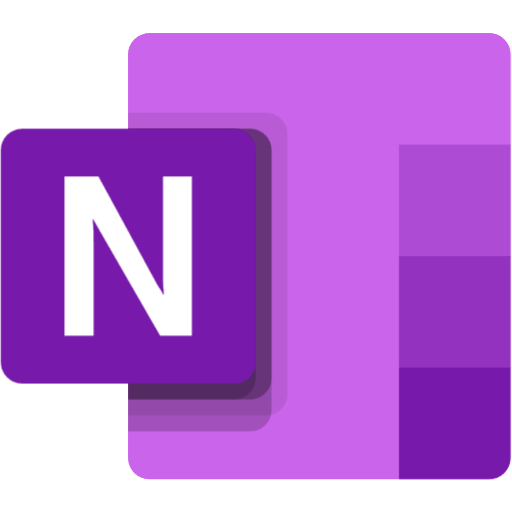
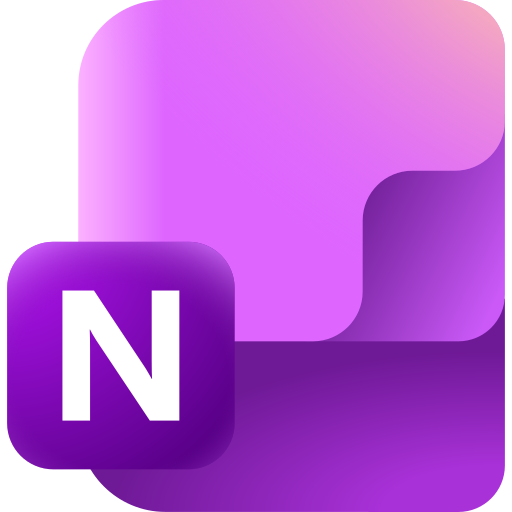
r0b08x [chore]   10/29/2025, 8:09:58 AM

diff --git a/change-log.md b/change-log.md
@@ -7,8 +7,12 @@
 
 ## Change log
 
+### v2025.10.111
+Released on 10/29/2025
+* FEATURE: Update icon to 2025 OneNote.
+
 ### v2025.10.110
-Released on 10/27/2025
+Released on 10/28/2025
 * BUGFIX: Fix startup failure on Ubuntu 24.04 when Wayland is unavailable by defaulting to X11/auto fallback (https://github.com/patrikx3/onenote/issues/233).
 
 
@@ -92,7 +96,7 @@ All my domains, including [patrikx3.com](https://patrikx3.com), [corifeus.eu](ht
 ---
 
 
-[**P3X-ONENOTE**](https://corifeus.com/onenote) Build v2025.10.110
+[**P3X-ONENOTE**](https://corifeus.com/onenote) Build v2025.10.111
 
  [![NPM](https://img.shields.io/npm/v/p3x-onenote.svg)](https://www.npmjs.com/package/p3x-onenote)  [![Donate for PatrikX3 / P3X](https://img.shields.io/badge/Donate-PatrikX3-003087.svg)](https://www.paypal.com/cgi-bin/webscr?cmd=_s-xclick&hosted_button_id=QZVM4V6HVZJW6)  [![Contact Corifeus / P3X](https://img.shields.io/badge/Contact-P3X-ff9900.svg)](https://www.patrikx3.com/en/front/contact) [![Like Corifeus @ Facebook](https://img.shields.io/badge/LIKE-Corifeus-3b5998.svg)](https://www.facebook.com/corifeus.software)
 

diff --git a/README.md b/README.md
@@ -6,7 +6,7 @@
 
 
 
-# 📚 P3X OneNote Linux v2025.10.110
+# 📚 P3X OneNote Linux v2025.10.111
 
 
   
@@ -22,7 +22,7 @@
 ### 🛠 Built on NodeJs version
 
 ```txt
-v24.10.0
+v24.11.0
 ```
 
 
@@ -320,7 +320,7 @@ All my domains, including [patrikx3.com](https://patrikx3.com), [corifeus.eu](ht
 ---
 
 
-[**P3X-ONENOTE**](https://corifeus.com/onenote) Build v2025.10.110
+[**P3X-ONENOTE**](https://corifeus.com/onenote) Build v2025.10.111
 
  [![NPM](https://img.shields.io/npm/v/p3x-onenote.svg)](https://www.npmjs.com/package/p3x-onenote)  [![Donate for PatrikX3 / P3X](https://img.shields.io/badge/Donate-PatrikX3-003087.svg)](https://www.paypal.com/cgi-bin/webscr?cmd=_s-xclick&hosted_button_id=QZVM4V6HVZJW6)  [![Contact Corifeus / P3X](https://img.shields.io/badge/Contact-P3X-ff9900.svg)](https://www.patrikx3.com/en/front/contact) [![Like Corifeus @ Facebook](https://img.shields.io/badge/LIKE-Corifeus-3b5998.svg)](https://www.facebook.com/corifeus.software)
 

diff --git a/change-log.2019.md b/change-log.2019.md
@@ -222,7 +222,7 @@ All my domains, including [patrikx3.com](https://patrikx3.com), [corifeus.eu](ht
 ---
 
 
-[**P3X-ONENOTE**](https://corifeus.com/onenote) Build v2025.10.110
+[**P3X-ONENOTE**](https://corifeus.com/onenote) Build v2025.10.111
 
  [![NPM](https://img.shields.io/npm/v/p3x-onenote.svg)](https://www.npmjs.com/package/p3x-onenote)  [![Donate for PatrikX3 / P3X](https://img.shields.io/badge/Donate-PatrikX3-003087.svg)](https://www.paypal.com/cgi-bin/webscr?cmd=_s-xclick&hosted_button_id=QZVM4V6HVZJW6)  [![Contact Corifeus / P3X](https://img.shields.io/badge/Contact-P3X-ff9900.svg)](https://www.patrikx3.com/en/front/contact) [![Like Corifeus @ Facebook](https://img.shields.io/badge/LIKE-Corifeus-3b5998.svg)](https://www.facebook.com/corifeus.software)
 

diff --git a/change-log.2020.md b/change-log.2020.md
@@ -184,7 +184,7 @@ All my domains, including [patrikx3.com](https://patrikx3.com), [corifeus.eu](ht
 ---
 
 
-[**P3X-ONENOTE**](https://corifeus.com/onenote) Build v2025.10.110
+[**P3X-ONENOTE**](https://corifeus.com/onenote) Build v2025.10.111
 
  [![NPM](https://img.shields.io/npm/v/p3x-onenote.svg)](https://www.npmjs.com/package/p3x-onenote)  [![Donate for PatrikX3 / P3X](https://img.shields.io/badge/Donate-PatrikX3-003087.svg)](https://www.paypal.com/cgi-bin/webscr?cmd=_s-xclick&hosted_button_id=QZVM4V6HVZJW6)  [![Contact Corifeus / P3X](https://img.shields.io/badge/Contact-P3X-ff9900.svg)](https://www.patrikx3.com/en/front/contact) [![Like Corifeus @ Facebook](https://img.shields.io/badge/LIKE-Corifeus-3b5998.svg)](https://www.facebook.com/corifeus.software)
 

diff --git a/change-log.2021.md b/change-log.2021.md
@@ -216,7 +216,7 @@ All my domains, including [patrikx3.com](https://patrikx3.com), [corifeus.eu](ht
 ---
 
 
-[**P3X-ONENOTE**](https://corifeus.com/onenote) Build v2025.10.110
+[**P3X-ONENOTE**](https://corifeus.com/onenote) Build v2025.10.111
 
  [![NPM](https://img.shields.io/npm/v/p3x-onenote.svg)](https://www.npmjs.com/package/p3x-onenote)  [![Donate for PatrikX3 / P3X](https://img.shields.io/badge/Donate-PatrikX3-003087.svg)](https://www.paypal.com/cgi-bin/webscr?cmd=_s-xclick&hosted_button_id=QZVM4V6HVZJW6)  [![Contact Corifeus / P3X](https://img.shields.io/badge/Contact-P3X-ff9900.svg)](https://www.patrikx3.com/en/front/contact) [![Like Corifeus @ Facebook](https://img.shields.io/badge/LIKE-Corifeus-3b5998.svg)](https://www.facebook.com/corifeus.software)
 

diff --git a/change-log.2023.md b/change-log.2023.md
@@ -115,7 +115,7 @@ All my domains, including [patrikx3.com](https://patrikx3.com), [corifeus.eu](ht
 ---
 
 
-[**P3X-ONENOTE**](https://corifeus.com/onenote) Build v2025.10.110
+[**P3X-ONENOTE**](https://corifeus.com/onenote) Build v2025.10.111
 
  [![NPM](https://img.shields.io/npm/v/p3x-onenote.svg)](https://www.npmjs.com/package/p3x-onenote)  [![Donate for PatrikX3 / P3X](https://img.shields.io/badge/Donate-PatrikX3-003087.svg)](https://www.paypal.com/cgi-bin/webscr?cmd=_s-xclick&hosted_button_id=QZVM4V6HVZJW6)  [![Contact Corifeus / P3X](https://img.shields.io/badge/Contact-P3X-ff9900.svg)](https://www.patrikx3.com/en/front/contact) [![Like Corifeus @ Facebook](https://img.shields.io/badge/LIKE-Corifeus-3b5998.svg)](https://www.facebook.com/corifeus.software)
 

diff --git a/change-log.2024.md b/change-log.2024.md
@@ -150,7 +150,7 @@ All my domains, including [patrikx3.com](https://patrikx3.com), [corifeus.eu](ht
 ---
 
 
-[**P3X-ONENOTE**](https://corifeus.com/onenote) Build v2025.10.110
+[**P3X-ONENOTE**](https://corifeus.com/onenote) Build v2025.10.111
 
  [![NPM](https://img.shields.io/npm/v/p3x-onenote.svg)](https://www.npmjs.com/package/p3x-onenote)  [![Donate for PatrikX3 / P3X](https://img.shields.io/badge/Donate-PatrikX3-003087.svg)](https://www.paypal.com/cgi-bin/webscr?cmd=_s-xclick&hosted_button_id=QZVM4V6HVZJW6)  [![Contact Corifeus / P3X](https://img.shields.io/badge/Contact-P3X-ff9900.svg)](https://www.patrikx3.com/en/front/contact) [![Like Corifeus @ Facebook](https://img.shields.io/badge/LIKE-Corifeus-3b5998.svg)](https://www.facebook.com/corifeus.software)
 

diff --git a/artifacts/arm.md b/artifacts/arm.md
@@ -64,7 +64,7 @@ All my domains, including [patrikx3.com](https://patrikx3.com), [corifeus.eu](ht
 ---
 
 
-[**P3X-ONENOTE**](https://corifeus.com/onenote) Build v2025.10.110
+[**P3X-ONENOTE**](https://corifeus.com/onenote) Build v2025.10.111
 
  [![NPM](https://img.shields.io/npm/v/p3x-onenote.svg)](https://www.npmjs.com/package/p3x-onenote)  [![Donate for PatrikX3 / P3X](https://img.shields.io/badge/Donate-PatrikX3-003087.svg)](https://www.paypal.com/cgi-bin/webscr?cmd=_s-xclick&hosted_button_id=QZVM4V6HVZJW6)  [![Contact Corifeus / P3X](https://img.shields.io/badge/Contact-P3X-ff9900.svg)](https://www.patrikx3.com/en/front/contact) [![Like Corifeus @ Facebook](https://img.shields.io/badge/LIKE-Corifeus-3b5998.svg)](https://www.facebook.com/corifeus.software)
 

diff --git a/artifacts/flavor.md b/artifacts/flavor.md
@@ -54,7 +54,7 @@ All my domains, including [patrikx3.com](https://patrikx3.com), [corifeus.eu](ht
 ---
 
 
-[**P3X-ONENOTE**](https://corifeus.com/onenote) Build v2025.10.110
+[**P3X-ONENOTE**](https://corifeus.com/onenote) Build v2025.10.111
 
  [![NPM](https://img.shields.io/npm/v/p3x-onenote.svg)](https://www.npmjs.com/package/p3x-onenote)  [![Donate for PatrikX3 / P3X](https://img.shields.io/badge/Donate-PatrikX3-003087.svg)](https://www.paypal.com/cgi-bin/webscr?cmd=_s-xclick&hosted_button_id=QZVM4V6HVZJW6)  [![Contact Corifeus / P3X](https://img.shields.io/badge/Contact-P3X-ff9900.svg)](https://www.patrikx3.com/en/front/contact) [![Like Corifeus @ Facebook](https://img.shields.io/badge/LIKE-Corifeus-3b5998.svg)](https://www.facebook.com/corifeus.software)
 

diff --git a/artifacts/new-language.md b/artifacts/new-language.md
@@ -55,7 +55,7 @@ All my domains, including [patrikx3.com](https://patrikx3.com), [corifeus.eu](ht
 ---
 
 
-[**P3X-ONENOTE**](https://corifeus.com/onenote) Build v2025.10.110
+[**P3X-ONENOTE**](https://corifeus.com/onenote) Build v2025.10.111
 
  [![NPM](https://img.shields.io/npm/v/p3x-onenote.svg)](https://www.npmjs.com/package/p3x-onenote)  [![Donate for PatrikX3 / P3X](https://img.shields.io/badge/Donate-PatrikX3-003087.svg)](https://www.paypal.com/cgi-bin/webscr?cmd=_s-xclick&hosted_button_id=QZVM4V6HVZJW6)  [![Contact Corifeus / P3X](https://img.shields.io/badge/Contact-P3X-ff9900.svg)](https://www.patrikx3.com/en/front/contact) [![Like Corifeus @ Facebook](https://img.shields.io/badge/LIKE-Corifeus-3b5998.svg)](https://www.facebook.com/corifeus.software)
 

diff --git a/artifacts/npm.md b/artifacts/npm.md
@@ -68,7 +68,7 @@ All my domains, including [patrikx3.com](https://patrikx3.com), [corifeus.eu](ht
 ---
 
 
-[**P3X-ONENOTE**](https://corifeus.com/onenote) Build v2025.10.110
+[**P3X-ONENOTE**](https://corifeus.com/onenote) Build v2025.10.111
 
  [![NPM](https://img.shields.io/npm/v/p3x-onenote.svg)](https://www.npmjs.com/package/p3x-onenote)  [![Donate for PatrikX3 / P3X](https://img.shields.io/badge/Donate-PatrikX3-003087.svg)](https://www.paypal.com/cgi-bin/webscr?cmd=_s-xclick&hosted_button_id=QZVM4V6HVZJW6)  [![Contact Corifeus / P3X](https://img.shields.io/badge/Contact-P3X-ff9900.svg)](https://www.patrikx3.com/en/front/contact) [![Like Corifeus @ Facebook](https://img.shields.io/badge/LIKE-Corifeus-3b5998.svg)](https://www.facebook.com/corifeus.software)
 

diff --git a/change-log.2022.md b/change-log.2022.md
@@ -91,7 +91,7 @@ All my domains, including [patrikx3.com](https://patrikx3.com), [corifeus.eu](ht
 ---
 
 
-[**P3X-ONENOTE**](https://corifeus.com/onenote) Build v2025.10.110
+[**P3X-ONENOTE**](https://corifeus.com/onenote) Build v2025.10.111
 
  [![NPM](https://img.shields.io/npm/v/p3x-onenote.svg)](https://www.npmjs.com/package/p3x-onenote)  [![Donate for PatrikX3 / P3X](https://img.shields.io/badge/Donate-PatrikX3-003087.svg)](https://www.paypal.com/cgi-bin/webscr?cmd=_s-xclick&hosted_button_id=QZVM4V6HVZJW6)  [![Contact Corifeus / P3X](https://img.shields.io/badge/Contact-P3X-ff9900.svg)](https://www.patrikx3.com/en/front/contact) [![Like Corifeus @ Facebook](https://img.shields.io/badge/LIKE-Corifeus-3b5998.svg)](https://www.facebook.com/corifeus.software)
 
